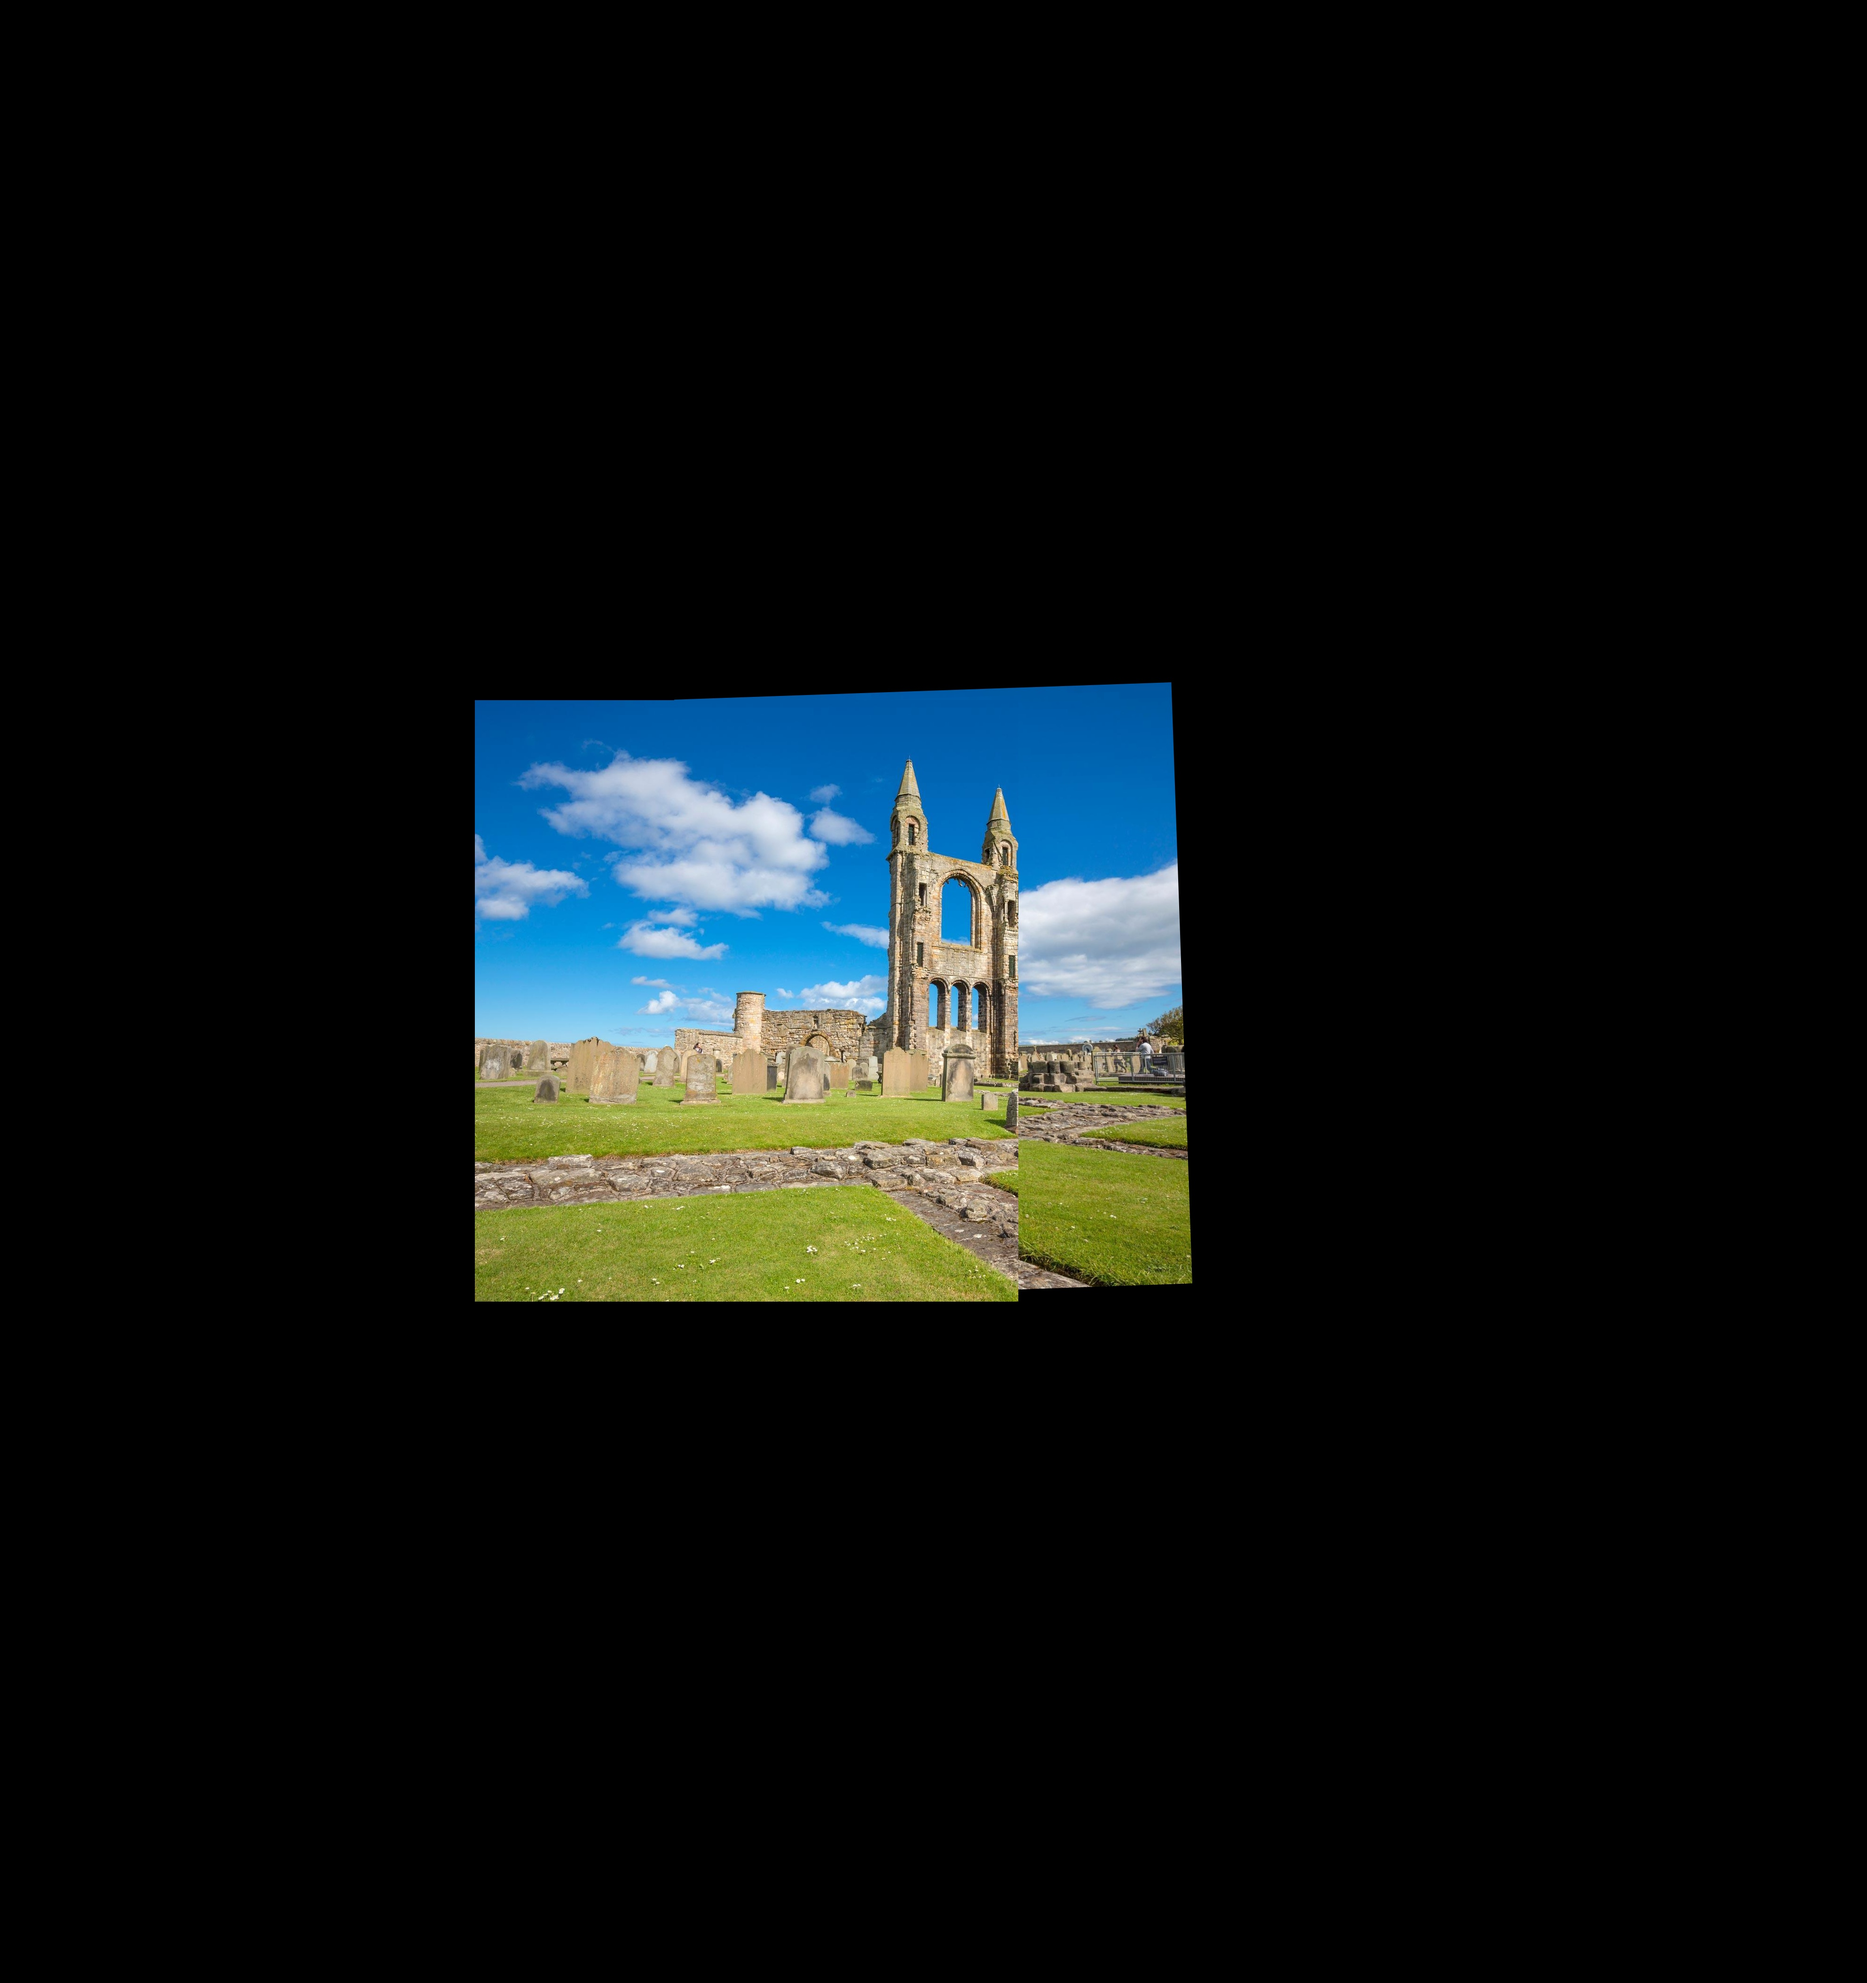
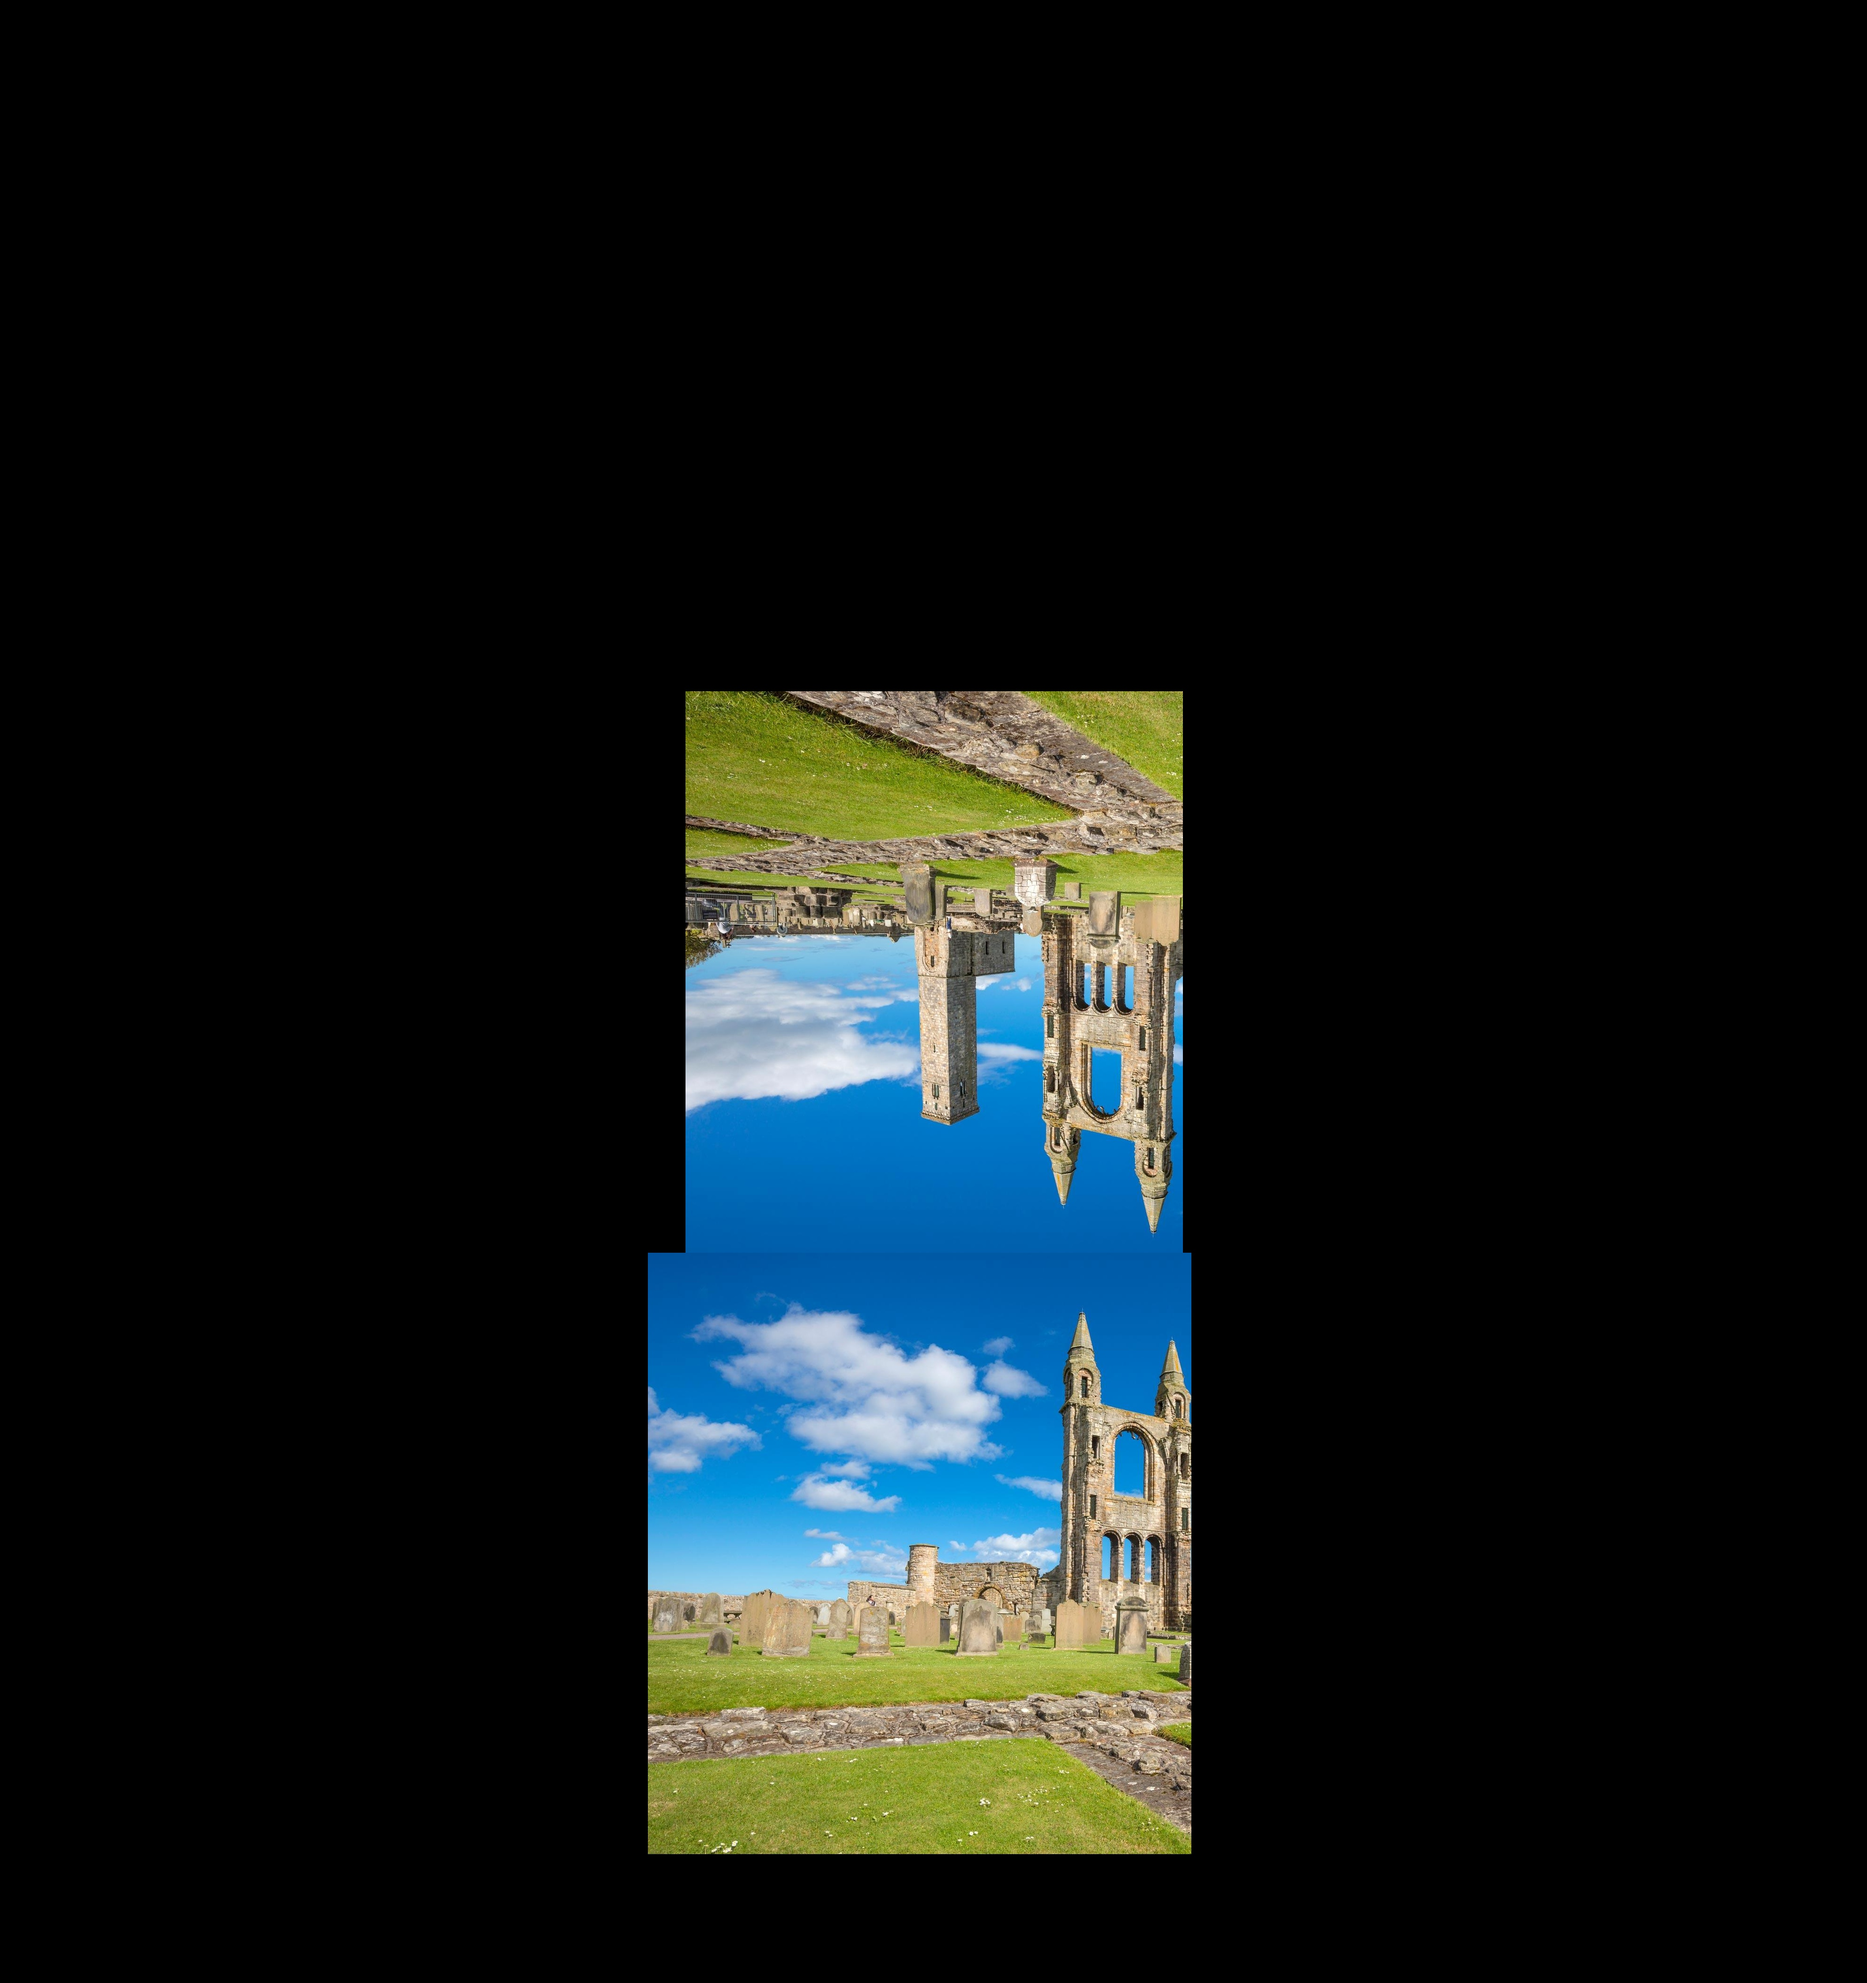
Sampling rate of the intersection polygon is in percentage now

Changed region(s): [[0.2498, 0.3417, 0.6558, 0.9319]]

diff --git a/CoordinateSystem.py b/CoordinateSystem.py
@@ -13,6 +13,7 @@ import numpy as np
 from joblib import Parallel, delayed
 # import sys
 import time
+SAMPLING_RATE = 10
 
 class CoordinateSystem:
     rectangle1 = []
@@ -92,12 +93,16 @@ class CoordinateSystem:
     def get_coordinates_in_polygon(self, polygon):
         #Start = time.time()
         p1 = Polygon(self.rectangle1)
-        if (polygon.area <= p1.area*0.4):
+        if (polygon.area <= p1.area*0.15):
             return -1
         coordinatesInPolygon = []
         bounds = polygon.bounds
-        y_step = round((int(bounds[3]) - int(bounds[1]))/30)
-        x_step = round((int(bounds[2]) - int(bounds[0]))/30)
+        height = int(bounds[3]) - int(bounds[1])
+        width = int(bounds[2]) - int(bounds[0])
+        y_num_samples = round(height/100*SAMPLING_RATE)
+        x_num_samples = round(width/100*SAMPLING_RATE)
+        y_step = int(round(height/y_num_samples))
+        x_step = int(round(width/x_num_samples))
         if (x_step<1):
             x_step = 1
         if (y_step<1):

diff --git a/main.py b/main.py
@@ -7,19 +7,20 @@ import os
 class main:
 
     def mosaic2Images(img1,img2):
+        START_TIME = time.time()
         mosaic = ImageStitcher(img1.copy(),img2.copy(),False)
-        mosaic.mosaicImages(1500)
+        mosaic.mosaicImages(3600)
+        END_TIME = time.time()
+        print("Time taken: ", format(END_TIME - START_TIME), " seconds")
         mosaic.drawImage(mosaic.BestX,mosaic.BestY,360-mosaic.Best_Rotate,0)
 
     def clearScreen():
         os.system('clear')
 
     if __name__=='__main__':
-        START_TIME = time.time()
+        
         clearScreen()
         img1 = cv2.imread('images/andrews1.png')
         img2 = cv2.imread('images/andrews2.png')  
         print("Starting the algorithm\n\n")
         mosaic2Images(img1,img2)
-        END_TIME = time.time()
-        print("Time taken: ", format(END_TIME - START_TIME), " seconds")

diff --git a/test_coor_system.py b/test_coor_system.py
@@ -27,16 +27,16 @@ def getCornersOfImages(SHIFT):
     (w1+x_OffsetIMG2+w2,h1+y_OffsetIMG2+h2),(w1+x_OffsetIMG2,h1+y_OffsetIMG2+h2)]
     return rectangle1,rectangle2
 
-rectangles = getCornersOfImages((207,14,357))
+rectangles = getCornersOfImages((242,62,256))
 print(rectangles)
 coor_system.set_rectangles(rectangles)
-num = coor_system.get_indecies_on_rotate(207,14,357)
+num = coor_system.get_indecies_on_rotate(242,62,256)
 
 st = ImageStitcher(img1,img2,False)
-st.drawImage(207,14,360-357,0)
+st.drawImage(242,62,360-256,0)
 st.set_canvas()
-print(st.calculateLoss((207,14,357)))
-# print(st.calculateLoss((92,92,45)))
+print(st.calculateLoss((242,62,256)))
+#print(st.calculateLoss((92,92,45)))
 print(num[1][0])
 canvas[num[0][:]] = 240
 canvas[num[1][:]] = 240
